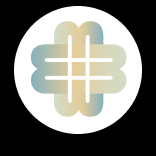
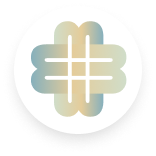
Fix: 하단 네비게이터 메인 아이콘 수정

diff --git a/src/components/common/bottomNavigator.js b/src/components/common/bottomNavigator.js
@@ -31,7 +31,7 @@ const BottomNavigator = (props) => {
                 style = {{backgroundColor : 'white'}}
                 onPress={() => props.type === 1 ? null : navigation.navigate('MainPage')}>
                 <Image
-                    style = {{width: 64, height: 64}}
+                    style = {{width: 80, height: 80}}
                     source={require('../../assets/navigate/main.png')}/>
             </TouchableOpacity>
             <TouchableOpacity
